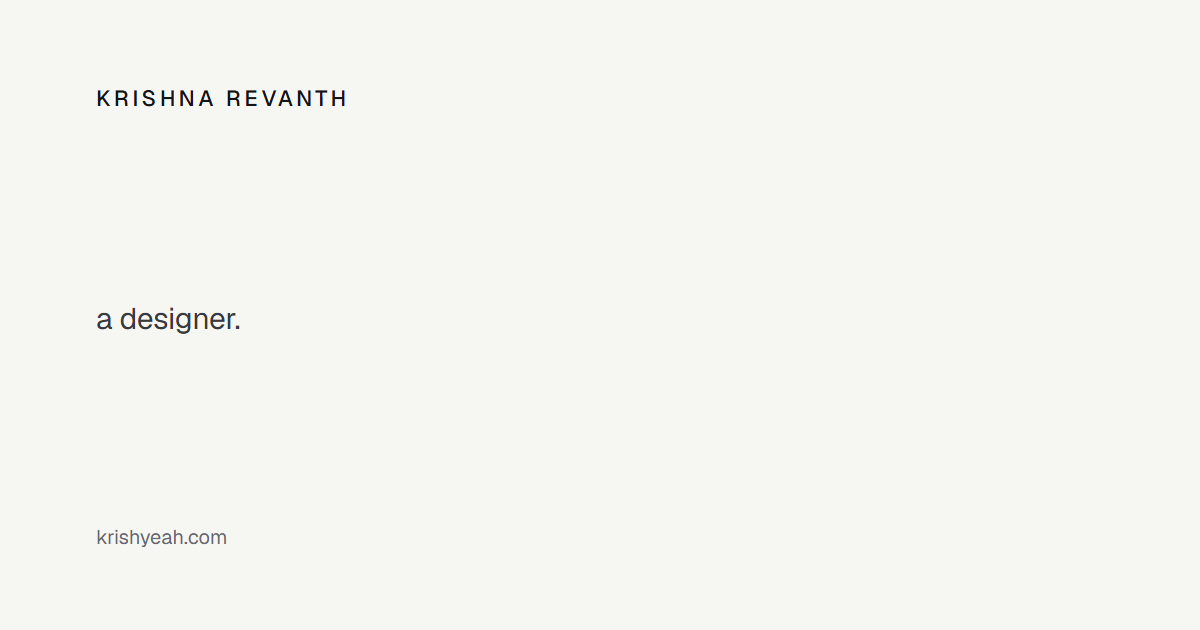
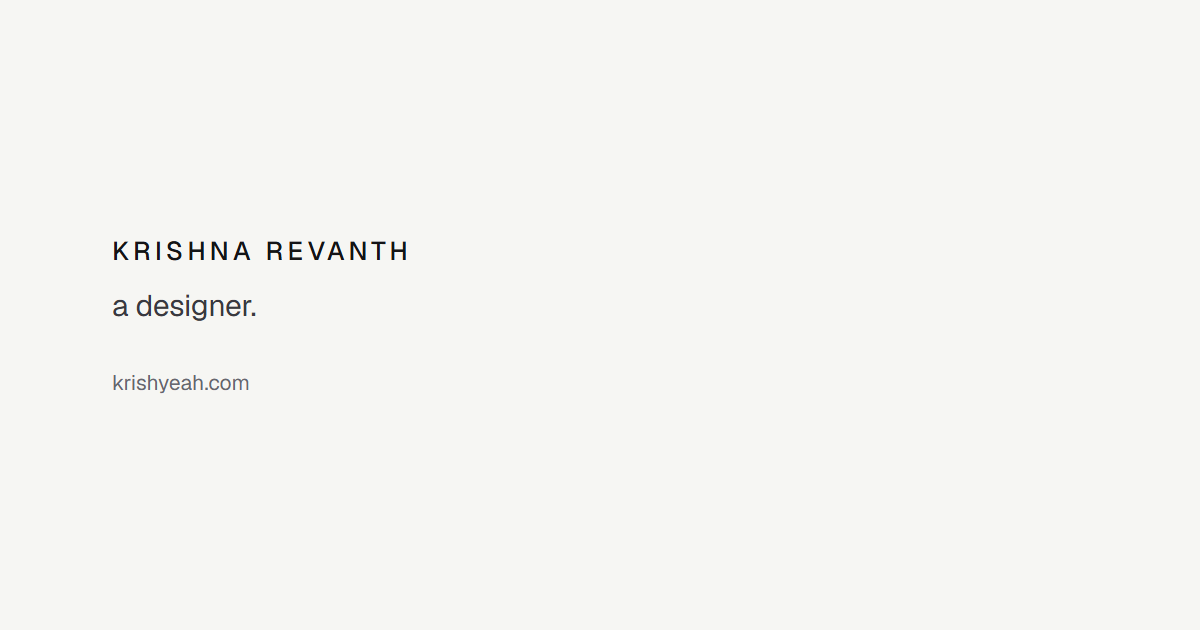
Phones: no flash under the header between pages; simpler share image
- The page transition is off on phones, where the folded-away menu was being
  caught in it and flashing, blurred, under the header
- Every page marks itself script-ready from its first line, so the phone
  menu starts hidden instead of showing as links and fading out (undone after
  4 s if site.js never arrives)
- Share image: name, "a designer." and the address together, left-aligned

diff --git a/assets/css/base.css b/assets/css/base.css
@@ -285,15 +285,18 @@ a:hover { color: var(--accent); }
 /* Home and the Work page use a narrow column, the case studies and About a wider one, so the name, the nav and the
    theme button sit in different places from page to page. When a link opens another page of the site, the browser
    glides those three from where they were to where they go, while the rest of the page cross-fades (a cross-document
-   view transition). Browsers without this get the same glide from site.js. Reduced motion: no glide. */
+   view transition). Browsers without this get the same glide from site.js. Phones and reduced motion: no glide. */
 @view-transition { navigation: auto; }
 .brand { view-transition-name: site-brand; }
 .nav { view-transition-name: site-nav; }
 .header-tools { view-transition-name: site-tools; }
 ::view-transition-group(site-brand), ::view-transition-group(site-nav), ::view-transition-group(site-tools) { animation-duration: 0.75s; animation-timing-function: cubic-bezier(0.45, 0.05, 0.25, 1); } /* eases out of one place and into the other */
 ::view-transition-old(root), ::view-transition-new(root) { animation-duration: 0.35s; }
-@media (prefers-reduced-motion: reduce) {
+/* phones: the header sits in the same place on every page, and the folded-away menu would otherwise be caught in the
+   transition and flash, blurred, under the header. So no transition at all there. Same with reduced motion. */
+@media (max-width: 699px), (prefers-reduced-motion: reduce) {
   @view-transition { navigation: none; }
+  .brand, .nav, .header-tools { view-transition-name: none; }
 }
 
 /* ---------- back to top ---------- */

diff --git a/work/quickbooks-rate-tables/index.html b/work/quickbooks-rate-tables/index.html
@@ -2,7 +2,7 @@
 <html lang="en">
 <head>
   <meta charset="utf-8">
-  <script>(function(h){var t;try{t=localStorage.getItem("theme")}catch(e){}if(t!=="dark")t="light";h.setAttribute("data-theme",t)})(document.documentElement)</script>
+  <script>(function(h){var t;try{t=localStorage.getItem("theme")}catch(e){}if(t!=="dark")t="light";h.setAttribute("data-theme",t);h.classList.add("has-js");setTimeout(function(){if(!window.__siteOK)h.classList.remove("has-js")},4000)})(document.documentElement)</script>
   <script>(function(d){var h=d.documentElement,off=function(){h.classList.remove("js")};h.classList.add("js");addEventListener("error",function(e){if(e.target&&e.target.tagName==="SCRIPT")off()},true);setTimeout(function(){if(!window.__siteOK)off()},4000)})(document)</script>
   <meta name="viewport" content="width=device-width, initial-scale=1">
   <title>QuickBooks Payments and Bill Pay Rate Tables — Krishna Revanth</title>
@@ -19,7 +19,7 @@
   <link rel="preconnect" href="https://fonts.googleapis.com">
   <link rel="preconnect" href="https://fonts.gstatic.com" crossorigin>
   <link rel="stylesheet" href="https://fonts.googleapis.com/css2?family=Geist:wght@300..600&display=swap">
-  <link rel="stylesheet" href="/assets/css/base.css?v=20261116b">
+  <link rel="stylesheet" href="/assets/css/base.css?v=20261116c">
   <link rel="stylesheet" href="/assets/css/footer-live.css?v=20261101b">
   <link rel="stylesheet" href="/assets/css/case-study.css?v=20261116a">
   <link rel="stylesheet" href="/assets/css/work-art.css?v=20261115c">

diff --git a/work/net-terms/index.html b/work/net-terms/index.html
@@ -2,7 +2,7 @@
 <html lang="en">
 <head>
   <meta charset="utf-8">
-  <script>(function(h){var t;try{t=localStorage.getItem("theme")}catch(e){}if(t!=="dark")t="light";h.setAttribute("data-theme",t)})(document.documentElement)</script>
+  <script>(function(h){var t;try{t=localStorage.getItem("theme")}catch(e){}if(t!=="dark")t="light";h.setAttribute("data-theme",t);h.classList.add("has-js");setTimeout(function(){if(!window.__siteOK)h.classList.remove("has-js")},4000)})(document.documentElement)</script>
   <script>(function(d){var h=d.documentElement,off=function(){h.classList.remove("js")};h.classList.add("js");addEventListener("error",function(e){if(e.target&&e.target.tagName==="SCRIPT")off()},true);setTimeout(function(){if(!window.__siteOK)off()},4000)})(document)</script>
   <meta name="viewport" content="width=device-width, initial-scale=1">
   <title>Net Terms for Intuit Enterprise Suite — Krishna Revanth</title>
@@ -19,7 +19,7 @@
   <link rel="preconnect" href="https://fonts.googleapis.com">
   <link rel="preconnect" href="https://fonts.gstatic.com" crossorigin>
   <link rel="stylesheet" href="https://fonts.googleapis.com/css2?family=Geist:wght@300..600&display=swap">
-  <link rel="stylesheet" href="/assets/css/base.css?v=20261116b">
+  <link rel="stylesheet" href="/assets/css/base.css?v=20261116c">
   <link rel="stylesheet" href="/assets/css/footer-live.css?v=20261101b">
   <link rel="stylesheet" href="/assets/css/case-study.css?v=20261116a">
   <link rel="stylesheet" href="/assets/css/work-art.css?v=20261115c">

diff --git a/work/mailchimp/index.html b/work/mailchimp/index.html
@@ -2,7 +2,7 @@
 <html lang="en">
 <head>
   <meta charset="utf-8">
-  <script>(function(h){var t;try{t=localStorage.getItem("theme")}catch(e){}if(t!=="dark")t="light";h.setAttribute("data-theme",t)})(document.documentElement)</script>
+  <script>(function(h){var t;try{t=localStorage.getItem("theme")}catch(e){}if(t!=="dark")t="light";h.setAttribute("data-theme",t);h.classList.add("has-js");setTimeout(function(){if(!window.__siteOK)h.classList.remove("has-js")},4000)})(document.documentElement)</script>
   <script>(function(d){var h=d.documentElement,off=function(){h.classList.remove("js")};h.classList.add("js");addEventListener("error",function(e){if(e.target&&e.target.tagName==="SCRIPT")off()},true);setTimeout(function(){if(!window.__siteOK)off()},4000)})(document)</script>
   <meta name="viewport" content="width=device-width, initial-scale=1">
   <title>Mailchimp on Sales Agent Channel — Krishna Revanth</title>
@@ -19,7 +19,7 @@
   <link rel="preconnect" href="https://fonts.googleapis.com">
   <link rel="preconnect" href="https://fonts.gstatic.com" crossorigin>
   <link rel="stylesheet" href="https://fonts.googleapis.com/css2?family=Geist:wght@300..600&display=swap">
-  <link rel="stylesheet" href="/assets/css/base.css?v=20261116b">
+  <link rel="stylesheet" href="/assets/css/base.css?v=20261116c">
   <link rel="stylesheet" href="/assets/css/footer-live.css?v=20261101b">
   <link rel="stylesheet" href="/assets/css/case-study.css?v=20261116a">
   <link rel="stylesheet" href="/assets/css/work-art.css?v=20261115c">

diff --git a/about/index.html b/about/index.html
@@ -2,7 +2,7 @@
 <html lang="en">
 <head>
   <meta charset="utf-8">
-  <script>(function(h){var t;try{t=localStorage.getItem("theme")}catch(e){}if(t!=="dark")t="light";h.setAttribute("data-theme",t)})(document.documentElement)</script>
+  <script>(function(h){var t;try{t=localStorage.getItem("theme")}catch(e){}if(t!=="dark")t="light";h.setAttribute("data-theme",t);h.classList.add("has-js");setTimeout(function(){if(!window.__siteOK)h.classList.remove("has-js")},4000)})(document.documentElement)</script>
   <script>(function(h){if(!location.hash&&!matchMedia("(prefers-reduced-motion: reduce)").matches){h.classList.add("is-arriving");setTimeout(function(){h.classList.remove("is-arriving")},3000)}})(document.documentElement) // the entrance (about.js) hides the page until it plays; never longer than 3 s</script>
   <meta name="viewport" content="width=device-width, initial-scale=1">
   <title>About — Krishna Revanth</title>
@@ -19,7 +19,7 @@
   <link rel="preconnect" href="https://fonts.googleapis.com">
   <link rel="preconnect" href="https://fonts.gstatic.com" crossorigin>
   <link rel="stylesheet" href="https://fonts.googleapis.com/css2?family=Geist:wght@300..600&display=swap">
-  <link rel="stylesheet" href="/assets/css/base.css?v=20261116b">
+  <link rel="stylesheet" href="/assets/css/base.css?v=20261116c">
   <link rel="stylesheet" href="/assets/css/footer-live.css?v=20261101b">
   <link rel="stylesheet" href="/assets/css/about.css?v=20261110i">
   <script src="/assets/js/site.js?v=20261116b" defer></script>

diff --git a/work/picto/index.html b/work/picto/index.html
@@ -2,7 +2,7 @@
 <html lang="en">
 <head>
   <meta charset="utf-8">
-  <script>(function(h){var t;try{t=localStorage.getItem("theme")}catch(e){}if(t!=="dark")t="light";h.setAttribute("data-theme",t)})(document.documentElement)</script>
+  <script>(function(h){var t;try{t=localStorage.getItem("theme")}catch(e){}if(t!=="dark")t="light";h.setAttribute("data-theme",t);h.classList.add("has-js");setTimeout(function(){if(!window.__siteOK)h.classList.remove("has-js")},4000)})(document.documentElement)</script>
   <script>(function(d){var h=d.documentElement,off=function(){h.classList.remove("js")};h.classList.add("js");addEventListener("error",function(e){if(e.target&&e.target.tagName==="SCRIPT")off()},true);setTimeout(function(){if(!window.__siteOK)off()},4000)})(document)</script>
   <meta name="viewport" content="width=device-width, initial-scale=1">
   <title>Picto — Krishna Revanth</title>
@@ -19,7 +19,7 @@
   <link rel="preconnect" href="https://fonts.googleapis.com">
   <link rel="preconnect" href="https://fonts.gstatic.com" crossorigin>
   <link rel="stylesheet" href="https://fonts.googleapis.com/css2?family=Geist:wght@300..600&display=swap">
-  <link rel="stylesheet" href="/assets/css/base.css?v=20261116b">
+  <link rel="stylesheet" href="/assets/css/base.css?v=20261116c">
   <link rel="stylesheet" href="/assets/css/footer-live.css?v=20261101b">
   <link rel="stylesheet" href="/assets/css/case-study.css?v=20261116a">
   <link rel="stylesheet" href="/assets/css/work-art.css?v=20261115c">

diff --git a/index.html b/index.html
@@ -2,7 +2,7 @@
 <html lang="en">
 <head>
   <meta charset="utf-8">
-  <script>(function(h){var t;try{t=localStorage.getItem("theme")}catch(e){}if(t!=="dark")t="light";h.setAttribute("data-theme",t)})(document.documentElement)</script>
+  <script>(function(h){var t;try{t=localStorage.getItem("theme")}catch(e){}if(t!=="dark")t="light";h.setAttribute("data-theme",t);h.classList.add("has-js");setTimeout(function(){if(!window.__siteOK)h.classList.remove("has-js")},4000)})(document.documentElement)</script>
   <meta name="viewport" content="width=device-width, initial-scale=1">
   <script>(function(h){var s;try{s=sessionStorage.getItem("introPlayed")}catch(e){}if(!s)h.classList.add("intro-wait","intro-anim")})(document.documentElement)</script>
   <title>Krishna Revanth — Designer</title>
@@ -19,7 +19,7 @@
   <link rel="preconnect" href="https://fonts.googleapis.com">
   <link rel="preconnect" href="https://fonts.gstatic.com" crossorigin>
   <link rel="stylesheet" href="https://fonts.googleapis.com/css2?family=Caveat:wght@500&family=Geist:wght@300..600&display=swap">
-  <link rel="stylesheet" href="/assets/css/base.css?v=20261116b">
+  <link rel="stylesheet" href="/assets/css/base.css?v=20261116c">
   <link rel="stylesheet" href="/assets/css/footer-live.css?v=20261101b">
   <link rel="stylesheet" href="/assets/css/notes.css?v=20261115a">
   <link rel="stylesheet" href="/assets/css/work-art.css?v=20261115c">

diff --git a/work/index.html b/work/index.html
@@ -2,7 +2,7 @@
 <html lang="en">
 <head>
   <meta charset="utf-8">
-  <script>(function(h){var t;try{t=localStorage.getItem("theme")}catch(e){}if(t!=="dark")t="light";h.setAttribute("data-theme",t)})(document.documentElement)</script>
+  <script>(function(h){var t;try{t=localStorage.getItem("theme")}catch(e){}if(t!=="dark")t="light";h.setAttribute("data-theme",t);h.classList.add("has-js");setTimeout(function(){if(!window.__siteOK)h.classList.remove("has-js")},4000)})(document.documentElement)</script>
   <meta name="viewport" content="width=device-width, initial-scale=1">
   <title>Work — Krishna Revanth</title>
   <meta name="description" content="Every project by Krishna Revanth, designer: purchase, pricing and billing work at Intuit, and Picto, a language app of his own.">
@@ -18,7 +18,7 @@
   <link rel="preconnect" href="https://fonts.googleapis.com">
   <link rel="preconnect" href="https://fonts.gstatic.com" crossorigin>
   <link rel="stylesheet" href="https://fonts.googleapis.com/css2?family=Geist:wght@300..600&display=swap">
-  <link rel="stylesheet" href="/assets/css/base.css?v=20261116b">
+  <link rel="stylesheet" href="/assets/css/base.css?v=20261116c">
   <link rel="stylesheet" href="/assets/css/footer-live.css?v=20261101b">
   <link rel="stylesheet" href="/assets/css/work-art.css?v=20261115c">
   <link rel="stylesheet" href="/assets/css/home.css?v=20261116f">

diff --git a/404.html b/404.html
@@ -2,7 +2,7 @@
 <html lang="en">
 <head>
   <meta charset="utf-8">
-  <script>(function(h){var t;try{t=localStorage.getItem("theme")}catch(e){}if(t!=="dark")t="light";h.setAttribute("data-theme",t)})(document.documentElement)</script>
+  <script>(function(h){var t;try{t=localStorage.getItem("theme")}catch(e){}if(t!=="dark")t="light";h.setAttribute("data-theme",t);h.classList.add("has-js");setTimeout(function(){if(!window.__siteOK)h.classList.remove("has-js")},4000)})(document.documentElement)</script>
   <meta name="theme-color" content="#0c0c0e">
   <meta name="viewport" content="width=device-width, initial-scale=1">
   <title>Not found — Krishna Revanth</title>
@@ -11,7 +11,7 @@
   <link rel="preconnect" href="https://fonts.googleapis.com">
   <link rel="preconnect" href="https://fonts.gstatic.com" crossorigin>
   <link rel="stylesheet" href="https://fonts.googleapis.com/css2?family=Geist:wght@300..600&display=swap">
-  <link rel="stylesheet" href="/assets/css/base.css?v=20261116b">
+  <link rel="stylesheet" href="/assets/css/base.css?v=20261116c">
   <link rel="stylesheet" href="/assets/css/case-study.css?v=20261031h">
   <script src="/assets/js/site.js?v=20261116b" defer></script>
   <script>window.va=window.va||function(){(window.vaq=window.vaq||[]).push(arguments)};</script>
